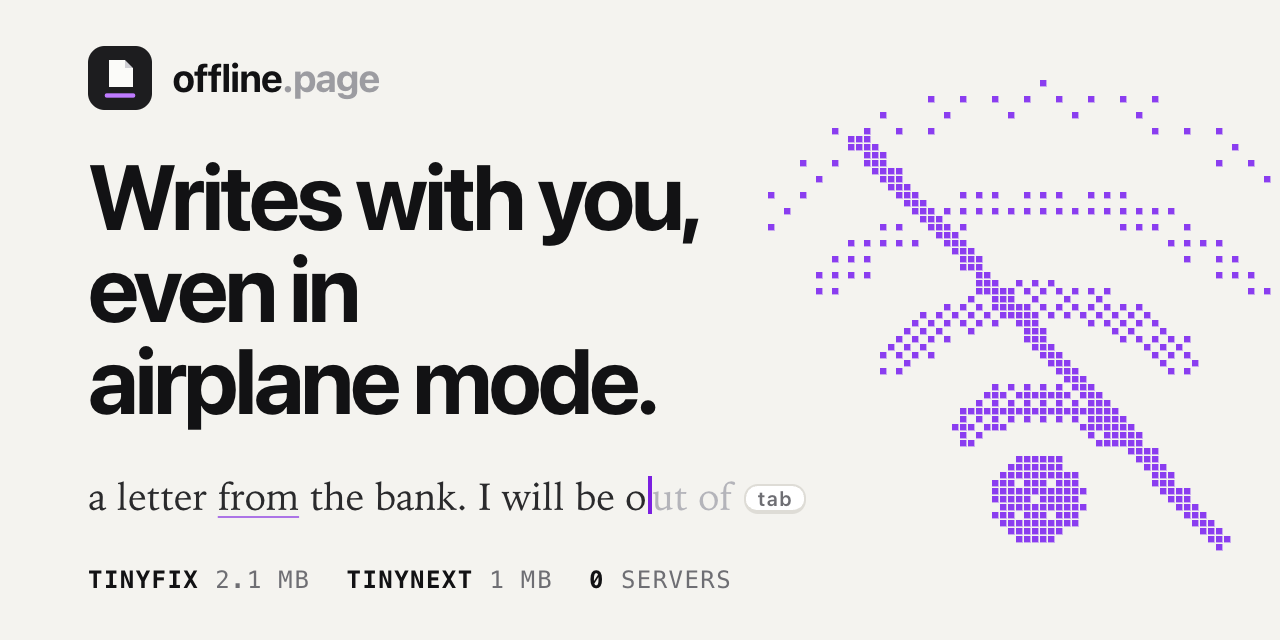
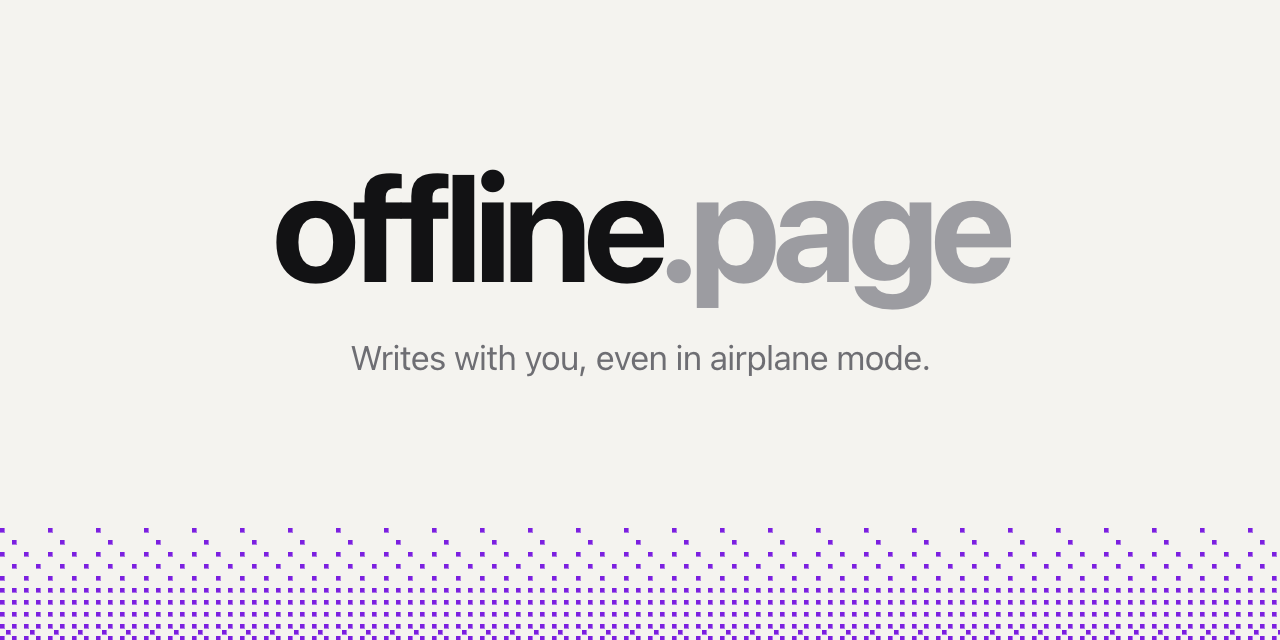
simplify brand images to a centered name and one line over a thin dither band

diff --git a/brand/src/title.html b/brand/src/title.html
@@ -1,0 +1,35 @@
+<!doctype html><html><head><meta charset="utf-8"><script src="dither.js"></script><link rel="stylesheet" href="brand.css"><style>
+.content{display:flex;flex-direction:column;align-items:center;justify-content:center;text-align:center;padding:0 48px 56px}
+.name{font-weight:700;letter-spacing:-.05em;line-height:1}
+.name em{font-style:normal;color:var(--faint)}
+.line{color:var(--sub);letter-spacing:-.01em;margin-top:18px}
+</style></head><body>
+<canvas class="layer" id="band"></canvas>
+<div class="content"><div class="name" id="name"></div><div class="line" id="line"></div></div>
+<script>
+// One template for every brand image: a centered name, one line, and a dithered band along the bottom.
+const IMAGES = {
+  banner:   { name: "offline<em>.page</em>", line: "Autocorrect and autocomplete that work in airplane mode.", size: 88, color: ["#7b1fe0", "#a36af5"] },
+  social:   { name: "offline<em>.page</em>", line: "Writes with you, even in airplane mode.", size: 76, color: ["#7b1fe0", "#a36af5"] },
+  tinyfix:  { name: "tinyfix", line: "Autocorrect that reads both sides of a word.", size: 104, color: ["#7b1fe0", "#a36af5"] },
+  tinynext: { name: "tinynext", line: "Suggests the next few words. Tab to take them.", size: 104, color: ["#8e8e93", "#8e8e93"] },
+};
+const id = new URLSearchParams(location.search).get("id");
+const image = IMAGES[id];
+const name = document.getElementById("name");
+name.innerHTML = image.name;
+name.style.fontSize = `${image.size}px`;
+const line = document.getElementById("line");
+line.textContent = image.line;
+line.style.fontSize = `${Math.round(image.size * 0.22)}px`;
+
+document.fonts.ready.then(() => {
+  const dark = theme === "dark";
+  dither(document.getElementById("band"), (ctx, g) => {
+    ctx.fillStyle = fade(ctx, 0, g.height * 0.8, 0, g.height, [[0, 0], [1, dark ? 0.42 : 0.34]]);
+    ctx.fillRect(0, 0, g.width, g.height);
+  }, { cell: 3, supersample: 1, gap: 0.7, color: image.color[dark ? 1 : 0] });
+  window.__ready = true;
+});
+</script>
+</body></html>
